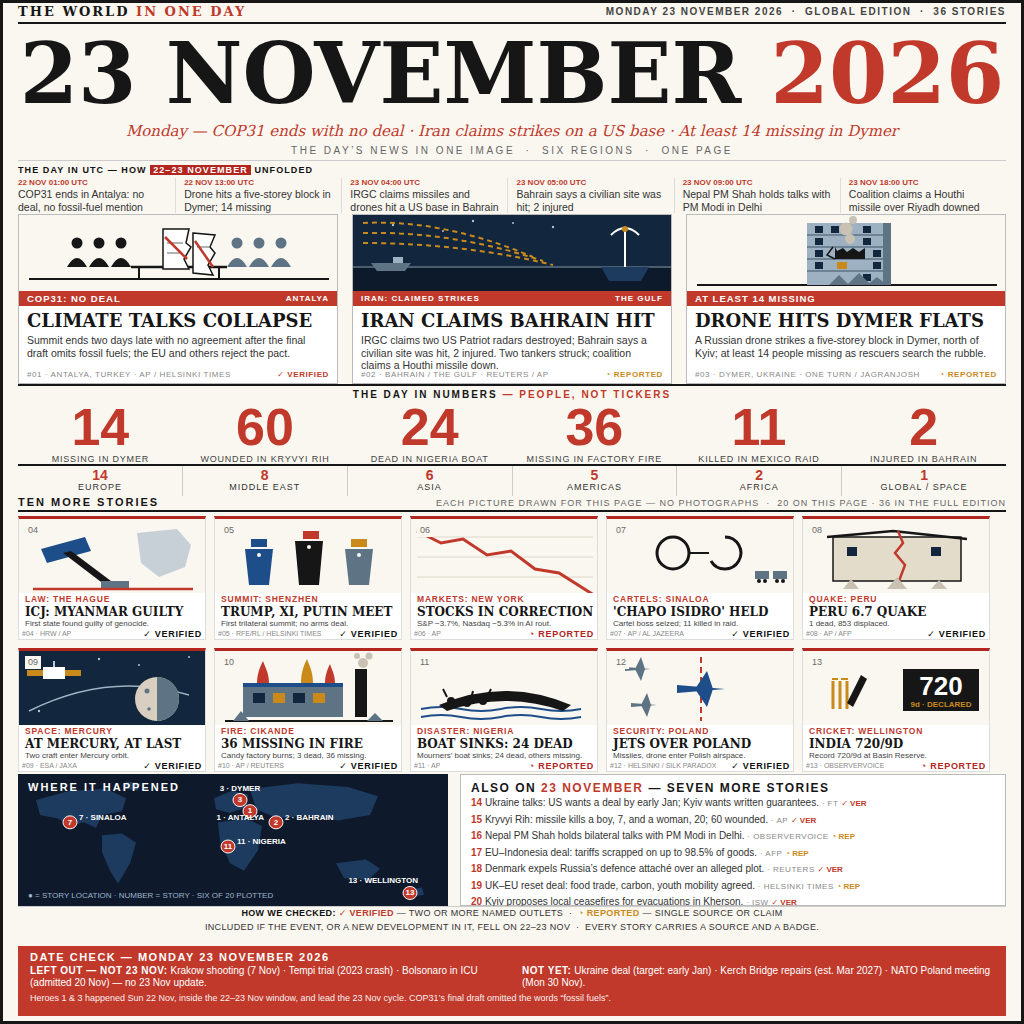
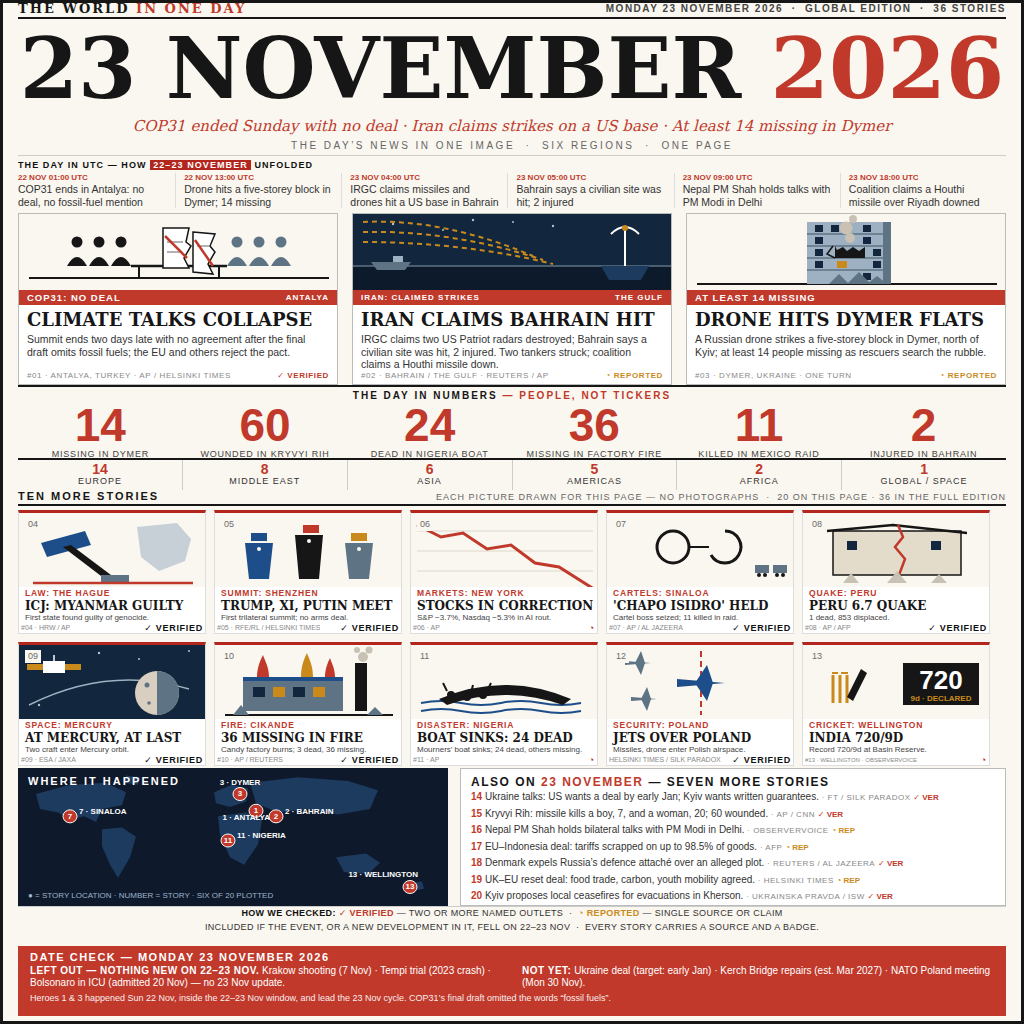
news-image-20261123: fix round 3 — Superbot 10-fix plan (both reviewers NOT READY again)
- ALSO ON rows 14/15/18/20 get second outlets (FT/SILK PARADOX, AP/CNN,
  REUTERS/AL JAZEERA, UKRAINSKA PRAVDA/ISW) with VER badges
- ALSO ON box 132->138px so row 20 is fully visible
- Card 12 footer now HELSINKI TIMES / SILK PARADOX in full (badge slot 62px,
  measured badge 53px); card 13 footer one outlet (OBSERVERVOICE, REPORTED)
- Hero 3 footer drops JAGRANJOSH (ONE TURN only, REPORTED)
- DATE CHECK label: NOTHING NEW ON 22-23 NOV
- UTC band 54->58px (4px clear below strip); heroes 170->172px (3px dek pad)
- Map markers 1/3 separated (22.7px); subtitle dates COP31 to Sunday
- Height ledger: +6/+4/+2 offset by -7 numbers band (52->46px) and -5 masthead;
  page stays exactly 1024, DATE CHECK 70px ending 8px above bottom rule

Changed region(s): [[0.0, 0.0, 1.0, 0.9062], [0.0312, 0.9375, 0.4688, 0.9688]]

diff --git a/build/front.html b/build/front.html
@@ -9,19 +9,19 @@
   .page { position:relative; width:1024px; height:1024px; }
   .frame { position:absolute; left:0; top:0; width:1024px; height:1024px; border:3px solid #161616; }
   .band { position:absolute; left:18px; width:988px; }
-  /* 1 masthead 0-24 */
-  .mast { top:0; height:24px; display:flex; align-items:center; justify-content:space-between; border-bottom:2px solid #161616; }
+  /* 1 masthead 0-19 */
+  .mast { top:0; height:19px; display:flex; align-items:center; justify-content:space-between; border-bottom:2px solid #161616; }
   .mast .name { font-family:"DejaVu Serif",serif; font-size:13px; font-weight:700; letter-spacing:2px; }
   .mast .name .red { color:#c0392b; }
   .mast .ed { font-size:10px; font-weight:700; letter-spacing:1.5px; color:#444; }
-  /* 2 date 24-160 */
-  .dateband { top:24px; height:136px; text-align:center; }
+  /* 2 date 19-155 */
+  .dateband { top:19px; height:136px; text-align:center; }
   .dateband .bigdate { font-family:"DejaVu Serif",serif; font-size:84px; font-weight:700; line-height:92px; letter-spacing:0; white-space:nowrap; padding-top:4px; }
   .dateband .bigdate .red { color:#c0392b; }
   .dateband .dek { font-family:"DejaVu Serif",serif; font-style:italic; font-size:15px; color:#c0392b; margin-top:2px; }
   .dateband .sub { font-size:10px; letter-spacing:2.5px; color:#666; margin-top:5px; }
-  /* 3 UTC 160-224 */
-  .utc { top:160px; height:54px; border-top:1px solid #ccc; padding-top:4px; }
+  /* 3 UTC 155-213 */
+  .utc { top:155px; height:58px; border-top:1px solid #ccc; padding-top:4px; }
   .utc .uh { font-size:9px; font-weight:700; letter-spacing:0.12em; color:#111111; }
   .utc .uh .hl { background:#B3261E; color:#fff; padding:0 3px; }
   .utc .cols { display:flex; margin-top:3px; }
@@ -29,34 +29,34 @@
   .utc .col:first-child { border-left:none; padding-left:0; }
   .utc .t { font-size:8px; font-weight:700; color:#c0392b; }
   .utc .e { font-size:10.5px; line-height:12.5px; color:#333; margin-top:1px; }
-  /* 4 heroes 224-404 */
-  .heroes { top:214px; height:170px; display:flex; gap:14px; }
-  .hero { width:320px; height:170px; border:1px solid #bbb; background:#fff; position:relative; overflow:hidden; }
+  /* 4 heroes 213-385 */
+  .heroes { top:213px; height:172px; display:flex; gap:14px; }
+  .hero { width:320px; height:172px; border:1px solid #bbb; background:#fff; position:relative; overflow:hidden; }
   .hero .art { width:320px; height:76px; overflow:hidden; }
   .hero .art svg { display:block; }
   .hero .banner { height:15px; background:#c0392b; color:#fff; font-size:9.5px; font-weight:700; letter-spacing:1px; line-height:15px; padding-left:8px; display:flex; justify-content:space-between; align-items:center; }
   .hero .banner .br { font-size:8px; padding-right:8px; letter-spacing:1px; }
   .hero h2 { font-family:"DejaVu Serif",serif; font-size:18px; font-weight:700; line-height:21px; padding:4px 8px 0 8px; white-space:nowrap; }
-  .hero .dek { font-size:10.5px; line-height:12.5px; color:#333; padding:3px 8px 0 8px; }
+  .hero .dek { font-size:10.5px; line-height:12.5px; color:#333; padding:3px 8px 3px 8px; }
   .hero .src { position:absolute; left:8px; right:8px; bottom:4px; font-size:8px; letter-spacing:0.6px; color:#888; display:flex; justify-content:space-between; }
   .hero .src .badge { font-weight:700; color:#c0392b; }
   .hero .src .badge.rep { color:#c98a1b; }
-  /* 5 numbers 404-486 */
-  .numbers { top:384px; height:82px; border-top:2px solid #161616; border-bottom:2px solid #161616; padding-top:3px; }
+  /* 5 numbers 385-460 */
+  .numbers { top:385px; height:75px; border-top:2px solid #161616; border-bottom:2px solid #161616; padding-top:3px; }
   .numbers .nh { font-size:10px; font-weight:700; letter-spacing:2px; text-align:center; }
   .numbers .nh span { color:#c0392b; }
   .numbers .nrow { display:flex; margin-top:1px; }
   .numbers .ncell { flex:1; text-align:center; }
-  .numbers .ncell .v { font-size:52px; font-weight:700; color:#c0392b; line-height:52px; }
+  .numbers .ncell .v { font-size:46px; font-weight:700; color:#c0392b; line-height:46px; }
   .numbers .ncell .l { font-size:9px; letter-spacing:0.8px; color:#444; line-height:10px; margin-top:1px; }
-  /* 6 regions 486-516 */
-  .regions { top:466px; height:30px; display:flex; }
+  /* 6 regions 460-490 */
+  .regions { top:460px; height:30px; display:flex; }
   .regions .cell { flex:1; text-align:center; border-right:1px solid #ccc; padding-top:2px; }
   .regions .cell:last-child { border-right:none; }
   .regions .cell .n { font-size:14px; font-weight:700; color:#c0392b; line-height:14px; }
   .regions .cell .r { font-size:9px; letter-spacing:1px; color:#333; line-height:10px; }
-  /* 7 cards 516-800 */
-  .cardsband { top:496px; height:278px; }
+  /* 7 cards 490-768 */
+  .cardsband { top:490px; height:278px; }
   .cardsband .ch { height:16px; display:flex; justify-content:space-between; align-items:baseline; border-bottom:2px solid #161616; }
   .cardsband .ch .t { font-size:11px; font-weight:700; letter-spacing:2px; }
   .cardsband .ch .n { font-size:9px; letter-spacing:1px; color:#666; }
@@ -68,18 +68,18 @@
   .card .ban { font-size:8.5px; font-weight:700; letter-spacing:0.8px; color:#c0392b; padding:0 6px; line-height:12px; height:12px; }
   .card h3 { font-family:"DejaVu Serif",serif; font-size:12px; font-weight:700; line-height:14px; height:14px; padding:0 6px; white-space:nowrap; }
   .card .dek { font-size:8px; line-height:10px; height:10px; color:#444; padding:0 6px; white-space:nowrap; overflow:hidden; }
-  .card .src { font-size:7px; letter-spacing:0; color:#888; padding:0 3px; line-height:10px; height:10px; display:flex; justify-content:space-between; }
-  .card .src .ssrc { max-width:calc(100% - 70px); overflow:hidden; white-space:nowrap; text-overflow:ellipsis; }
-  .card .src .fbadge { flex:0 0 70px; text-align:right; font-size:9px; font-weight:700; letter-spacing:0.08em; }
+  .card .src { font-size:7px; letter-spacing:0; color:#888; padding:0 2px; line-height:10px; height:10px; display:flex; justify-content:space-between; }
+  .card .src .ssrc { max-width:calc(100% - 62px); overflow:hidden; white-space:nowrap; text-overflow:ellipsis; }
+  .card .src .fbadge { flex:0 0 62px; text-align:right; font-size:9px; font-weight:700; letter-spacing:0.08em; }
   .card .src .fbadge.v { color:#111111; }
   .card .src .fbadge.r { color:#B3261E; }
-  /* 8 map + also 800-942 */
-  .mapband { top:774px; height:132px; display:flex; gap:12px; }
-  .map { width:430px; height:132px; background:#0e1a2b; position:relative; overflow:hidden; }
+  /* 8 map + also 768-906 */
+  .mapband { top:768px; height:138px; display:flex; gap:12px; }
+  .map { width:430px; height:138px; background:#0e1a2b; position:relative; overflow:hidden; }
   .map .maptitle { position:absolute; left:10px; top:7px; color:#fff; font-size:11px; font-weight:700; letter-spacing:2px; z-index:3; }
   .map .mapnote { position:absolute; left:10px; bottom:6px; color:#9fb3cc; font-size:8px; z-index:3; }
   .map svg { position:absolute; left:0; top:0; }
-  .also { width:546px; height:132px; background:#fff; border:1px solid #bbb; padding:6px 10px 0 10px; }
+  .also { width:546px; height:138px; background:#fff; border:1px solid #bbb; padding:6px 10px 0 10px; }
   .also .ah { font-size:12px; font-weight:700; letter-spacing:1.5px; }
   .also .ah span { color:#c0392b; }
   .also .ai { font-size:10px; line-height:14.5px; color:#333; margin-top:1px; white-space:nowrap; overflow:hidden; }
@@ -87,12 +87,12 @@
   .also .ai .asrc { font-size:8px; color:#888; letter-spacing:0.5px; }
   .also .ai .bdg { font-size:8px; font-weight:700; color:#c0392b; }
   .also .ai .bdg.rep { color:#c98a1b; }
-  /* 9 how checked 942-956 */
+  /* 9 how checked 906-934 */
   .checked { top:906px; height:28px; border-top:1px solid #ccc; font-size:9px; letter-spacing:0.04em; color:#333; text-align:center; line-height:1.5; }
   .checked b { color:#111; }
   .checked .v { color:#c0392b; font-weight:700; }
   .checked .r { color:#c98a1b; font-weight:700; }
-  /* 10 date check 956-1024 */
+  /* 10 date check 946-1016 */
   .datecheck { top:946px; height:70px; background:#c0392b; color:#fff; padding:5px 12px 6px 12px; }
   .datecheck .t { font-size:11px; font-weight:700; letter-spacing:1.5px; }
   .datecheck .cols { display:flex; gap:20px; margin-top:2px; }
@@ -112,7 +112,7 @@
 
 <div class="band dateband">
   <div class="bigdate">23 NOVEMBER <span class="red">2026</span></div>
-  <div class="dek">Monday &mdash; COP31 ends with no deal &middot; Iran claims strikes on a US base &middot; At least 14 missing in Dymer</div>
+  <div class="dek">COP31 ended Sunday with no deal &middot; Iran claims strikes on a US base &middot; At least 14 missing in Dymer</div>
   <div class="sub">THE DAY&rsquo;S NEWS IN ONE IMAGE &nbsp;&#183;&nbsp; SIX REGIONS &nbsp;&#183;&nbsp; ONE PAGE</div>
 </div>
 
@@ -207,7 +207,7 @@
     <div class="banner">AT LEAST 14 MISSING</div>
     <h2>DRONE HITS DYMER FLATS</h2>
     <div class="dek">A Russian drone strikes a five-storey block in Dymer, north of Kyiv; at least 14 people missing as rescuers search the rubble.</div>
-    <div class="src"><span>#03 &middot; DYMER, UKRAINE &middot; ONE TURN / JAGRANJOSH</span><span class="badge rep">&#9684; REPORTED</span></div>
+    <div class="src"><span>#03 &middot; DYMER, UKRAINE &middot; ONE TURN</span><span class="badge rep">&#9684; REPORTED</span></div>
   </div>
 </div>
 
@@ -389,7 +389,7 @@
       <div class="ban"><span>SECURITY: POLAND</span></div>
       <h3>JETS OVER POLAND</h3>
       <div class="dek">Missiles, drone enter Polish airspace.</div>
-      <div class="src"><span class="ssrc">#12 &middot; HELSINKI / SILK PARADOX</span><span class="fbadge v">&#10003; VERIFIED</span></div>
+      <div class="src"><span class="ssrc">HELSINKI TIMES / SILK PARADOX</span><span class="fbadge v">&#10003; VERIFIED</span></div>
     </div>
     <div class="card">
       <div class="art"><svg width="188" height="76" viewBox="0 0 188 76">
@@ -405,7 +405,7 @@
       <div class="ban"><span>CRICKET: WELLINGTON</span></div>
       <h3>INDIA 720/9D</h3>
       <div class="dek">Record 720/9d at Basin Reserve.</div>
-      <div class="src"><span class="ssrc">#13 &middot; OBSERVERVOICE</span><span class="fbadge r">&#9684; REPORTED</span></div>
+      <div class="src"><span class="ssrc" style="font-size:6px">#13 &middot; WELLINGTON &middot; OBSERVERVOICE</span><span class="fbadge r">&#9684; REPORTED</span></div>
     </div>
   </div>
 </div>
@@ -425,7 +425,7 @@
         <polygon points="392,124 404,122 406,130 394,132"/>
       </g>
       <g font-family="Liberation Sans, DejaVu Sans, sans-serif" font-size="8" font-weight="700" fill="#ffffff">
-        <g><circle cx="232" cy="40" r="7" fill="#c0392b" stroke="#ffffff" stroke-width="1"/><text x="232" y="42.5" text-anchor="middle">1</text><text x="246" y="50" text-anchor="end">1 &middot; ANTALYA</text></g>
+        <g><circle cx="238" cy="46" r="7" fill="#c0392b" stroke="#ffffff" stroke-width="1"/><text x="238" y="48.5" text-anchor="middle">1</text><text x="252" y="56" text-anchor="end">1 &middot; ANTALYA</text></g>
         <g><circle cx="258" cy="52" r="7" fill="#c0392b" stroke="#ffffff" stroke-width="1"/><text x="258" y="54.5" text-anchor="middle">2</text><text x="267" y="49">2 &middot; BAHRAIN</text></g>
         <g><circle cx="222" cy="28" r="7" fill="#c0392b" stroke="#ffffff" stroke-width="1"/><text x="222" y="30.5" text-anchor="middle">3</text><text x="222" y="18" text-anchor="middle">3 &middot; DYMER</text></g>
         <g><circle cx="52" cy="52" r="7" fill="#c0392b" stroke="#ffffff" stroke-width="1"/><text x="52" y="54.5" text-anchor="middle">7</text><text x="61" y="49">7 &middot; SINALOA</text></g>
@@ -437,13 +437,13 @@
   </div>
   <div class="also">
     <div class="ah">ALSO ON <span>23 NOVEMBER</span> &mdash; SEVEN MORE STORIES</div>
-    <div class="ai"><b>14</b> Ukraine talks: US wants a deal by early Jan; Kyiv wants written guarantees. <span class="asrc">&middot; FT</span> <span class="bdg">&#10003; VER</span></div>
-    <div class="ai"><b>15</b> Kryvyi Rih: missile kills a boy, 7, and a woman, 20; 60 wounded. <span class="asrc">&middot; AP</span> <span class="bdg">&#10003; VER</span></div>
+    <div class="ai"><b>14</b> Ukraine talks: US wants a deal by early Jan; Kyiv wants written guarantees. <span class="asrc">&middot; FT / SILK PARADOX</span> <span class="bdg">&#10003; VER</span></div>
+    <div class="ai"><b>15</b> Kryvyi Rih: missile kills a boy, 7, and a woman, 20; 60 wounded. <span class="asrc">&middot; AP / CNN</span> <span class="bdg">&#10003; VER</span></div>
     <div class="ai"><b>16</b> Nepal PM Shah holds bilateral talks with PM Modi in Delhi. <span class="asrc">&middot; OBSERVERVOICE</span> <span class="bdg rep">&#9684; REP</span></div>
     <div class="ai"><b>17</b> EU&ndash;Indonesia deal: tariffs scrapped on up to 98.5% of goods. <span class="asrc">&middot; AFP</span> <span class="bdg rep">&#9684; REP</span></div>
-    <div class="ai"><b>18</b> Denmark expels Russia&rsquo;s defence attach&eacute; over an alleged plot. <span class="asrc">&middot; REUTERS</span> <span class="bdg">&#10003; VER</span></div>
+    <div class="ai"><b>18</b> Denmark expels Russia&rsquo;s defence attach&eacute; over an alleged plot. <span class="asrc">&middot; REUTERS / AL JAZEERA</span> <span class="bdg">&#10003; VER</span></div>
     <div class="ai"><b>19</b> UK&ndash;EU reset deal: food trade, carbon, youth mobility agreed. <span class="asrc">&middot; HELSINKI TIMES</span> <span class="bdg rep">&#9684; REP</span></div>
-    <div class="ai"><b>20</b> Kyiv proposes local ceasefires for evacuations in Kherson. <span class="asrc">&middot; ISW</span> <span class="bdg">&#10003; VER</span></div>
+    <div class="ai"><b>20</b> Kyiv proposes local ceasefires for evacuations in Kherson. <span class="asrc">&middot; UKRAINSKA PRAVDA / ISW</span> <span class="bdg">&#10003; VER</span></div>
   </div>
 </div>
 
@@ -452,7 +452,7 @@
 <div class="band datecheck">
   <div class="t">DATE CHECK &mdash; MONDAY 23 NOVEMBER 2026</div>
   <div class="cols">
-    <div class="col"><b>LEFT OUT &mdash; NOT 23 NOV:</b> Krakow shooting (7 Nov) &middot; Tempi trial (2023 crash) &middot; Bolsonaro in ICU (admitted 20 Nov) &mdash; no 23 Nov update.</div>
+    <div class="col"><b>LEFT OUT &mdash; NOTHING NEW ON 22&ndash;23 NOV.</b> Krakow shooting (7 Nov) &middot; Tempi trial (2023 crash) &middot; Bolsonaro in ICU (admitted 20 Nov) &mdash; no 23 Nov update.</div>
     <div class="col"><b>NOT YET:</b> Ukraine deal (target: early Jan) &middot; Kerch Bridge repairs (est. Mar 2027) &middot; NATO Poland meeting (Mon 30 Nov).</div>
   </div>
   <div class="foot">Heroes 1 &amp; 3 happened Sun 22 Nov, inside the 22&ndash;23 Nov window, and lead the 23 Nov cycle. COP31&rsquo;s final draft omitted the words &ldquo;fossil fuels&rdquo;.</div>
